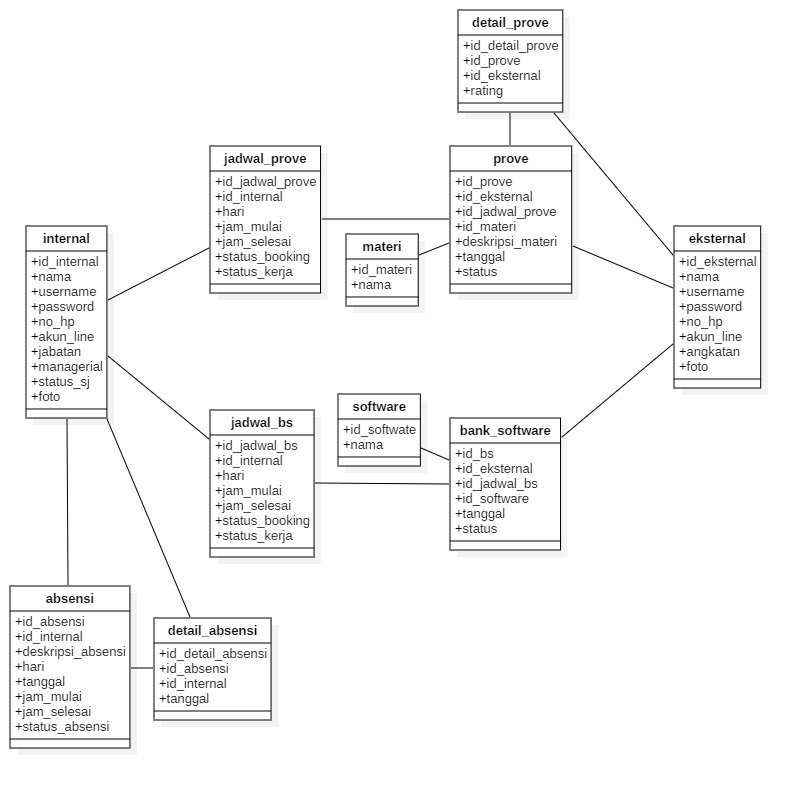
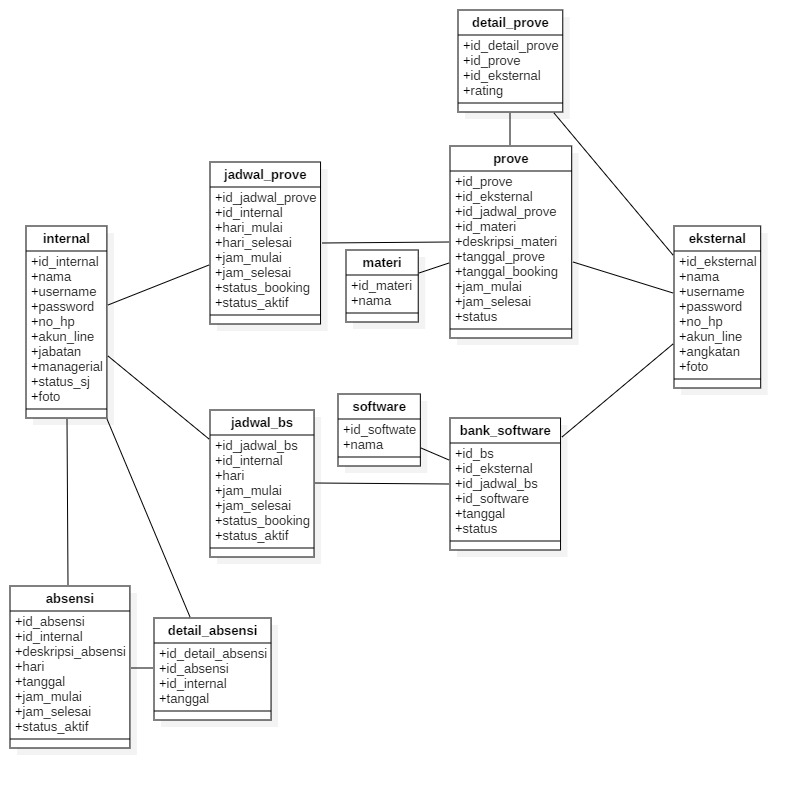
update db + home

diff --git a/ANDROID/SCC/app/src/main/java/com/its/scc/Activities/Internal/InternalHomeActivity.java b/ANDROID/SCC/app/src/main/java/com/its/scc/Activities/Internal/InternalHomeActivity.java
@@ -1,0 +1,16 @@
+package com.its.scc.Activities.Internal;
+
+import androidx.appcompat.app.AppCompatActivity;
+
+import android.os.Bundle;
+
+import com.its.scc.R;
+
+public class InternalHomeActivity extends AppCompatActivity {
+
+	@Override
+	protected void onCreate(Bundle savedInstanceState) {
+		super.onCreate(savedInstanceState);
+		setContentView(R.layout.activity_internal_home);
+	}
+}
